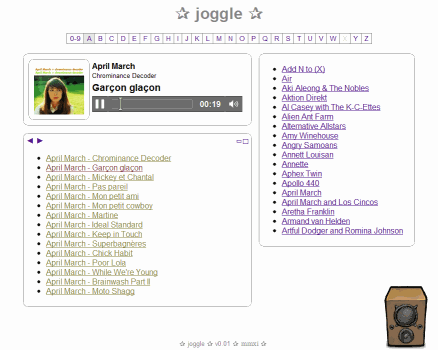
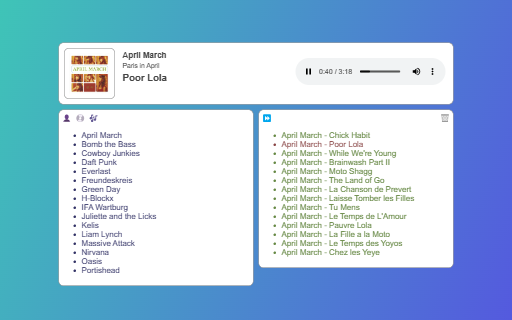
Updated readme files. Updated screenshot for readme files.

diff --git a/src/site/markdown/index.md b/src/site/markdown/index.md
@@ -1,9 +1,7 @@
-<img src="src/site/resources/images/audio.png" style="float:left; margin-right: .7em"/> joggle
------------------------------------------------
+joggle
+------
 
-joggle is short for "Java OGG LEnder"
-
-joggle is a simple mp3 / ogg streaming webapp. needs java and maven to build.
+joggle is a simple music player webapp. needs java and maven to build.
 
 1. check out the ``main`` branch or download the latest ``release``.
 2. edit ``src/main/resources/joggle.properties`` to point to your music directory.

diff --git a/readme.md b/readme.md
@@ -1,9 +1,9 @@
 <img src="src/site/resources/images/audio.png" style="float:left; margin-right: .7em"/> joggle
 -----------------------------------------------
 
-joggle is short for "Java OGG LEnder"
+joggle is a simple music player webapp.
 
-joggle is a simple mp3 / ogg streaming webapp. needs java and maven to build.
+needs java and maven to build.
 
 1. check out the ``main`` branch or download the latest ``release``.
 2. edit ``src/main/resources/joggle.properties`` to point to your music directory.
